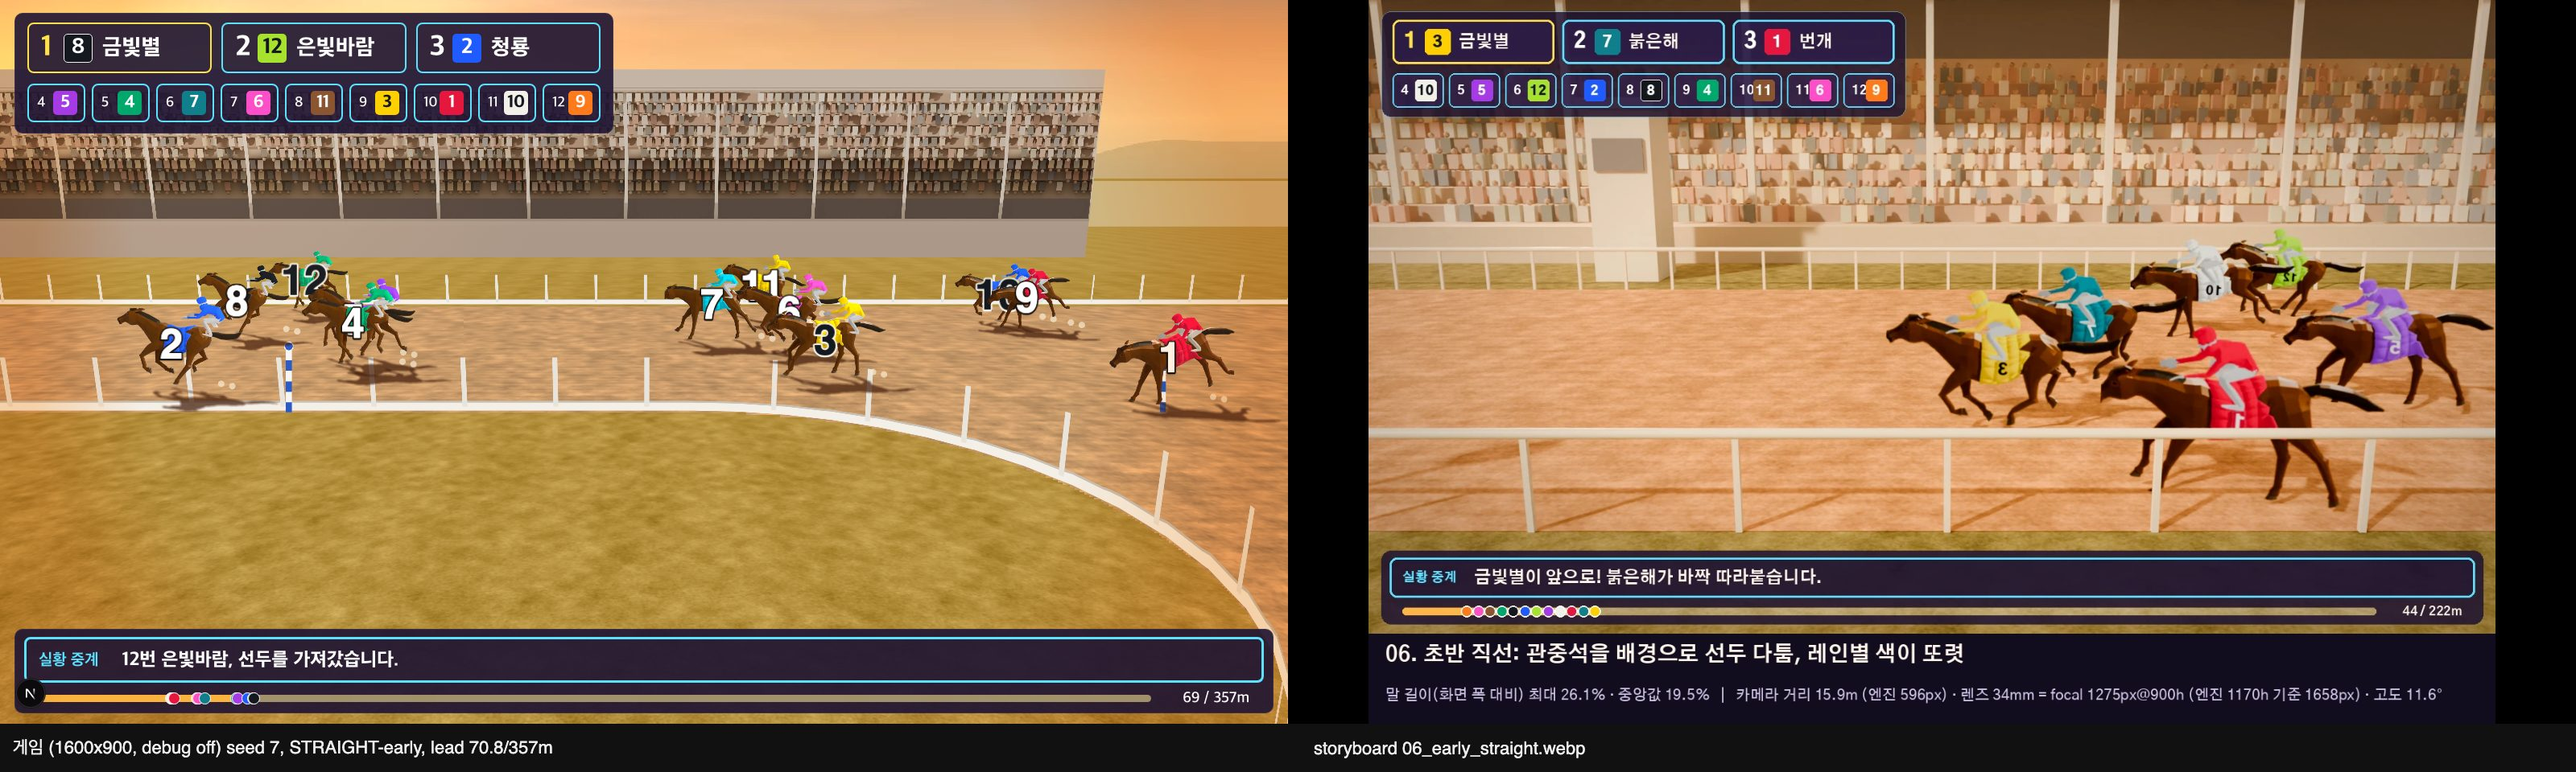
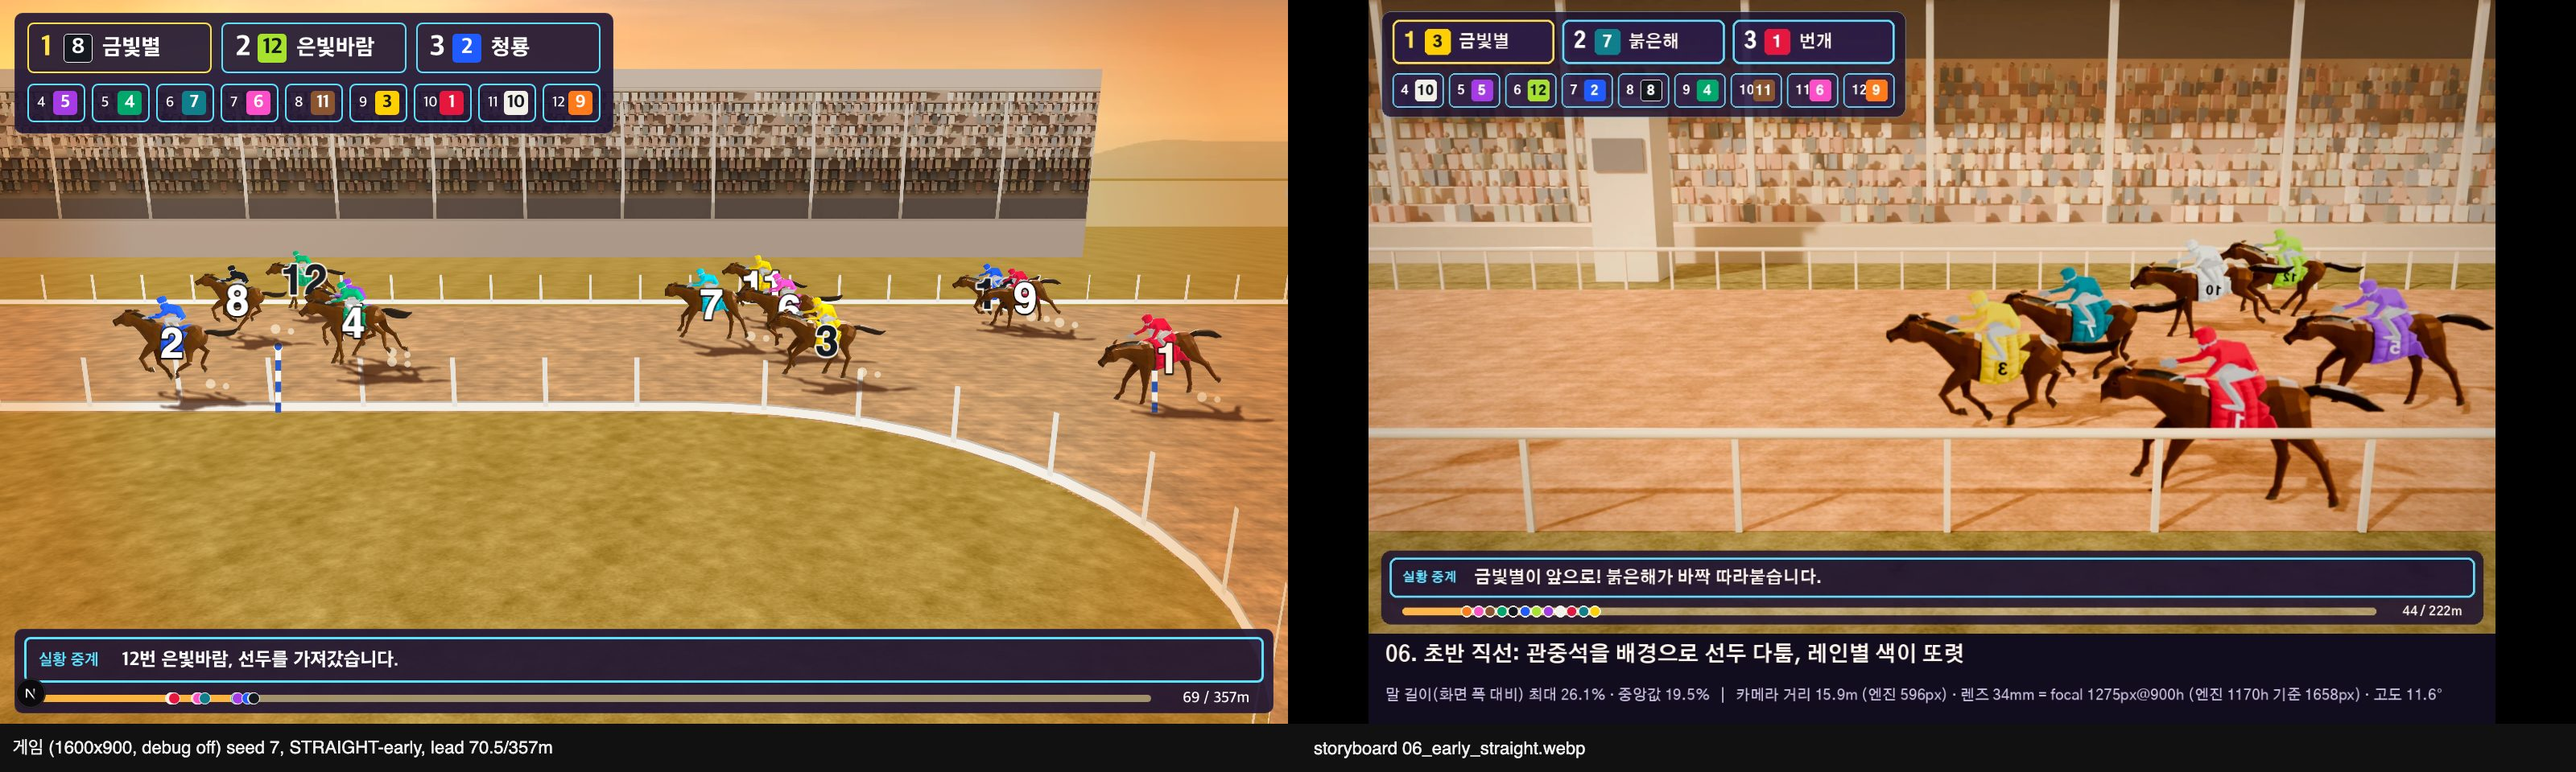
fix(horse): 좌우 반전된 말에서 기수가 안장에서 밀리던 문제
Phaser 4 flipX 는 원점이 아니라 프레임 가운데를 기준으로 뒤집는다(TransformerImage).
paintGallop 이 반전 시 원점을 frameW - anchorX 로 거울 이동해서, 말·무늬·기수·번호판이
모두 지면 기준점을 축으로 뒤집히게 한다.
scripts/check-ride-seat.mjs: 말·기수 시트를 각도·프레임별로 겹친 격자(시트 데이터는 정상 확인).

diff --git a/game/createRaceGame.ts b/game/createRaceGame.ts
@@ -250,7 +250,8 @@ function paintGallop(
   sprite.setTexture(key, frameName(texture, frame));
   const safeW = frameW || 1;
   const safeH = frameH || 1;
-  sprite.setOrigin(anchorX / safeW, anchorY / safeH);
+  // Phaser mirrors flipX about the frame center, not the origin. The mirrored origin keeps the anchor pixel on the sprite position.
+  sprite.setOrigin((flip ? safeW - anchorX : anchorX) / safeW, anchorY / safeH);
   sprite.setScale(scale);
   sprite.setFlipX(flip);
 }
